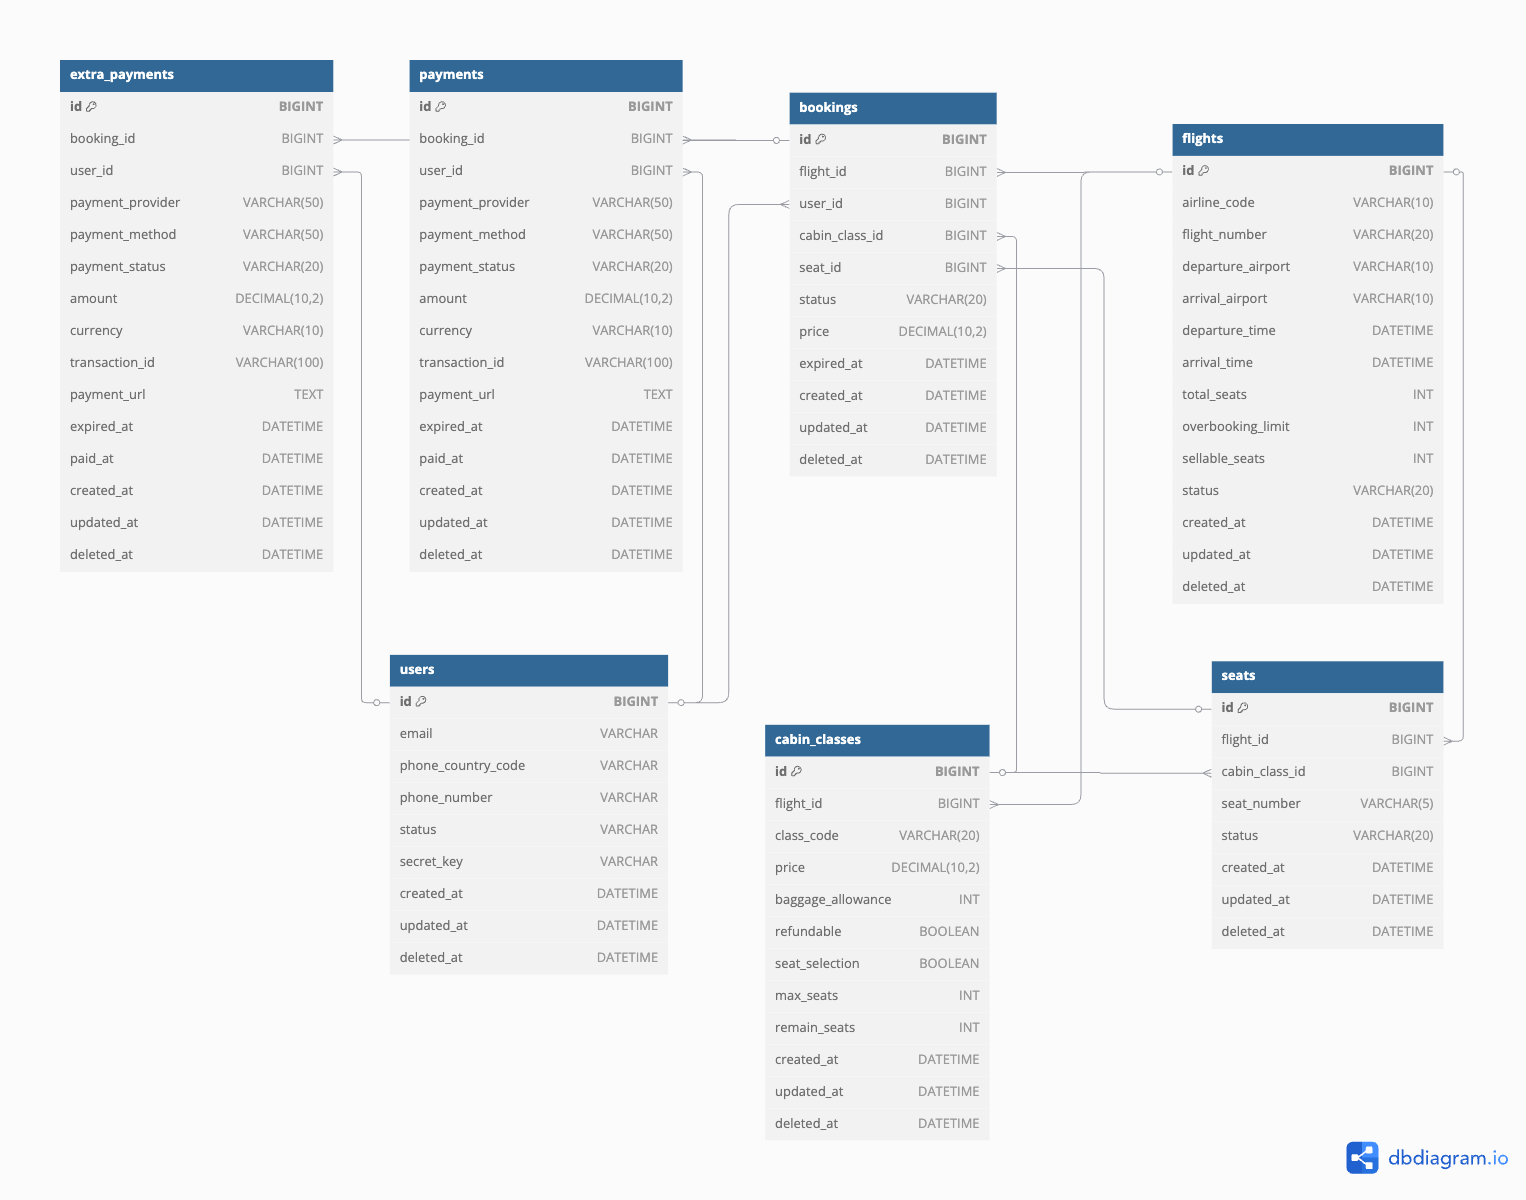
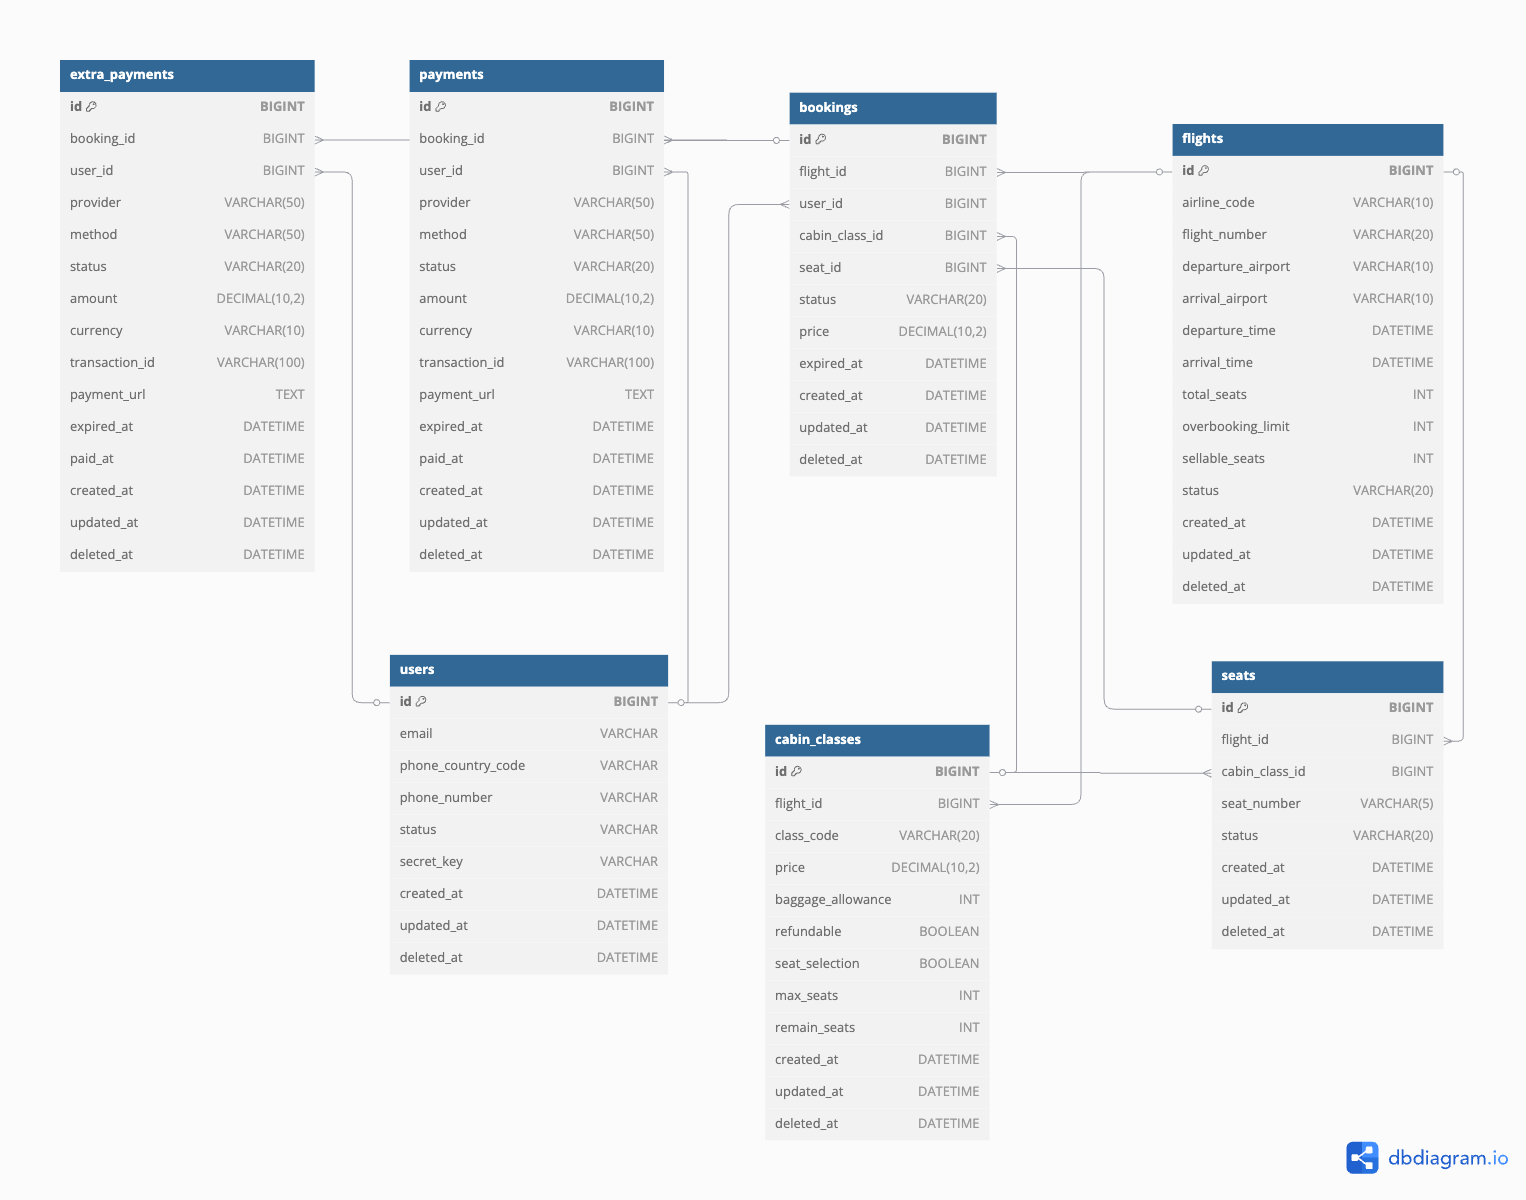
fix: update er diagram and add desc in readme

diff --git a/README.md b/README.md
@@ -79,6 +79,10 @@ Please refer to the [Swagger API documentation](./docs/swagger.yaml) for detaile
    make migrate-local
    ```
 
+## Testing
+- unit tests: to be added
+- api tests: please refer to the [api-test.http](./scripts/api-test.http) for detailed information on the available tests.
+
 ## License
 This project is licensed under the MIT License.
 
